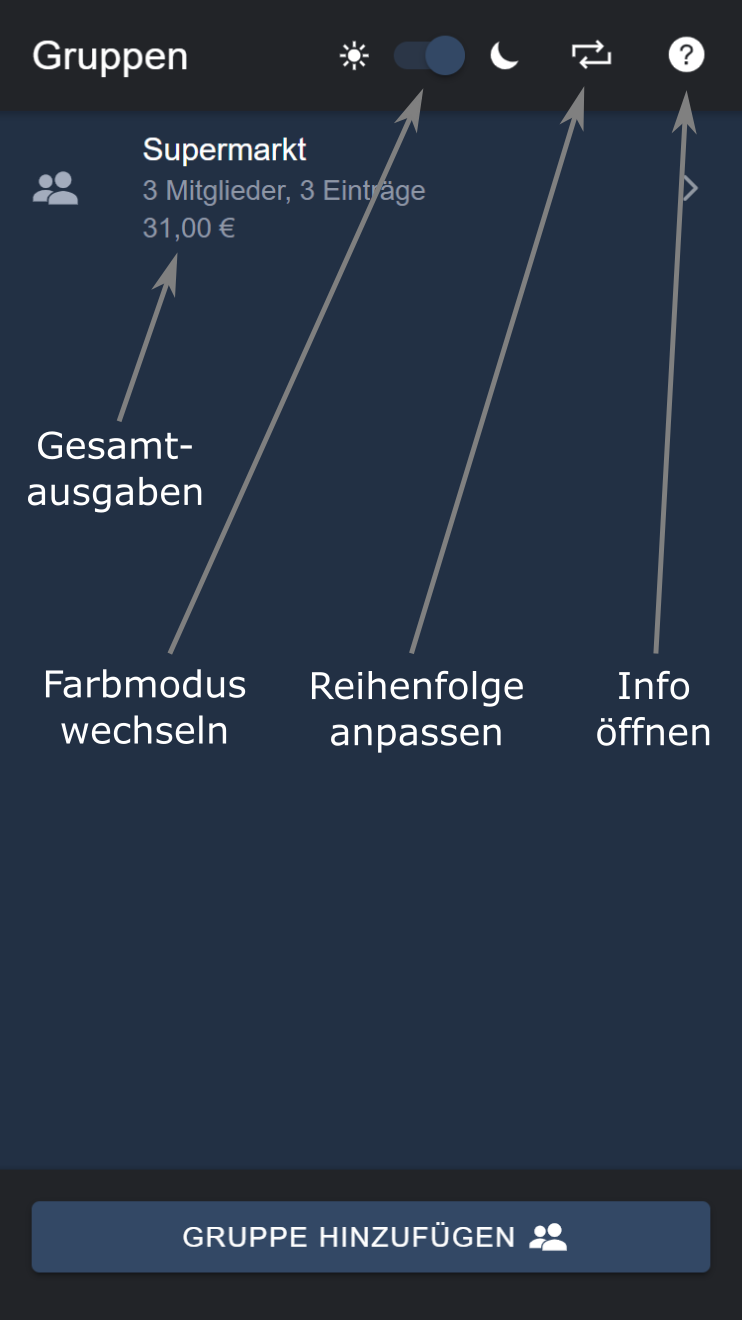
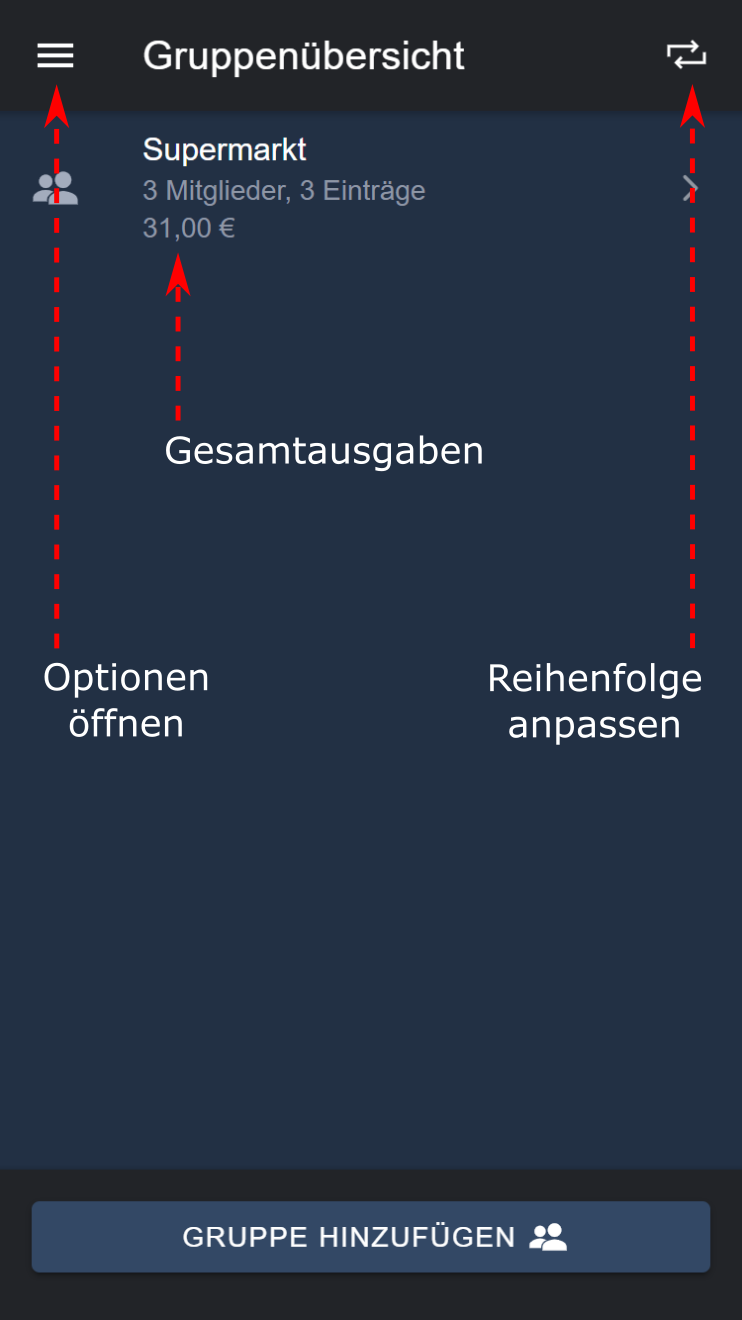
adjusted infoslides and added the open on first open again.

diff --git a/src/components/InfoSlides/index.tsx b/src/components/InfoSlides/index.tsx
@@ -3,8 +3,8 @@ import { informationCircleSharp, helpCircleSharp, bulbSharp } from 'ionicons/ico
 import { InfoSlideWithIcon } from './InfoSlideWithIcon'
 import { Swiper, SwiperSlide } from 'swiper/react/swiper-react'
 import { Pagination } from 'swiper'
-import img_group_overview from './images/Gruppenübersicht-bearbeitet.png'
-import img_group_info from './images/Gruppenmitglieder-bearbeitet.png'
+import GroupOverviewImage from './images/Gruppenübersicht-bearbeitet.png'
+import GroupInfoImage from './images/Gruppeninfo-bearbeitet.png'
 import { InfoSlideWithPicture } from './InfoSlideWithPicture'
 import 'swiper/swiper.min.css'
 import 'swiper/modules/pagination/pagination.min.css'
@@ -31,7 +31,7 @@ export const InfoSlides = ({ onToggleShowInfoSlides }: InfoSlidesProps): JSX.Ele
     <SwiperSlide style={{ flexDirection: 'column', justifyContent: 'start' }}>
       <InfoSlideWithPicture
         title='Gruppenübersicht'
-        imgSrc={img_group_overview}
+        imgSrc={GroupOverviewImage}
         imgAlt='Gruppenübersicht mit Bedienungshinweisen'
         onToggleShowInfoSlides={onToggleShowInfoSlides}
       />
@@ -39,7 +39,7 @@ export const InfoSlides = ({ onToggleShowInfoSlides }: InfoSlidesProps): JSX.Ele
     <SwiperSlide style={{ flexDirection: 'column', justifyContent: 'start' }}>
       <InfoSlideWithPicture
         title='Gruppeninfo'
-        imgSrc={img_group_info}
+        imgSrc={GroupInfoImage}
         imgAlt='Gruppeninfo mit Bedienungshinweisen'
         onToggleShowInfoSlides={onToggleShowInfoSlides}
       />
@@ -51,7 +51,7 @@ export const InfoSlides = ({ onToggleShowInfoSlides }: InfoSlidesProps): JSX.Ele
         title='Listeneinträge'
         onToggleShowInfoSlides={onToggleShowInfoSlides}
         firstParagraph='Durch das Anklicken einzelner Listeneinträge können diese entweder geöffnet oder bearbeitet werden.'
-        secondParagraph='Durch das Wischen einzelner Listeneinträge nach rechts wird ein Knopf sichtbar, über welchem diese gelöscht werden können.'
+        secondParagraph='Durch das Wischen einzelner Listeneinträge nach rechts wird ein Knopf sichtbar, über welchen diese gelöscht werden können.'
       />
     </SwiperSlide>
     <SwiperSlide style={{ flexDirection: 'column', justifyContent: 'start' }}>
@@ -60,7 +60,7 @@ export const InfoSlides = ({ onToggleShowInfoSlides }: InfoSlidesProps): JSX.Ele
         iconFontSize={216}
         title='Alles klar?'
         onToggleShowInfoSlides={onToggleShowInfoSlides}
-        firstParagraph='Über das Fragezeichen-Symbol in der Gruppenübersicht ist es möglich, diese Infos bei Bedarf erneut zu öffnen.'
+        firstParagraph='Über die Hilfe in den Optionen ist es möglich, diese Informationen bei Bedarf erneut zu öffnen.'
       >
         <IonButton color='medium' onClick={onToggleShowInfoSlides}>
           Kann losgehen!

diff --git a/src/pages/GroupPage/useGroupPage.ts b/src/pages/GroupPage/useGroupPage.ts
@@ -1,45 +1,51 @@
 import { App } from '@capacitor/app'
 import { useIonRouter } from '@ionic/react'
-import { useEffect, useState } from 'react'
+import { useEffect, useRef, useState } from 'react'
 import { Group } from '../../App/types'
 import { usePersistedStore } from '../../stores/usePersistedStore'
 import { isDark } from './utils'
 
 export const useGroupPage = () => {
   const theme = usePersistedStore.useTheme()
+  const alreadyVisited = usePersistedStore.useAlreadyVisited()
+  const setAlreadyVisited = usePersistedStore.useSetAlreadyVisited()
   const ionRouter = useIonRouter()
   const [showInfoSlides, setShowInfoSlides] = useState(false)
   const [showDeleteGroupAlert, setShowDeleteGroupAlert] = useState(false)
   const [selectedGroupId, setSelectedGroupId] = useState('')
+  const [showFirstInfoSlides, setShowFirstInfoSlides] = useState(!alreadyVisited)
+  // needed to remove the ion-page-invisible to show the page after the firstInfoSlide is closed
+  const pageRef = useRef(null)
 
   useEffect(() => {
     document.addEventListener('ionBackButton', event => {
       // @ts-ignore
       event.detail.register(-1, () => {
-        if (showInfoSlides) {
-          setShowInfoSlides(false)
-          return
-        }
-
-        if (!ionRouter.canGoBack()) {
-          App.exitApp()
-        }
+        if (showInfoSlides) return setShowInfoSlides(false)
+        if (showFirstInfoSlides) return onHideFirstInfoSlides()
+        if (!ionRouter.canGoBack()) App.exitApp()
       })
     })
-  }, [ionRouter, showInfoSlides, setShowInfoSlides])
+  }, [ionRouter, showInfoSlides, showFirstInfoSlides])
 
   useEffect(() => {
     if (isDark(theme)) return document.body.classList.add('dark')
     document.body.classList.remove('dark')
   }, [theme])
 
+  useEffect(() => {
+    setAlreadyVisited()
+  }, [setAlreadyVisited])
+
   const onDeleteGroup = (groupId: Group['groupId']) => {
     setSelectedGroupId(groupId)
     setShowDeleteGroupAlert(true)
   }
 
-  const onToggleShowInfoSlides = () => {
-    setShowInfoSlides(prevState => !prevState)
+  const onHideFirstInfoSlides = () => {
+    setShowFirstInfoSlides(false)
+    // @ts-ignore typing on pageRef is not correct from ionic
+    pageRef.current?.classList.remove('ion-page-invisible')
   }
 
   return {
@@ -49,6 +55,9 @@ export const useGroupPage = () => {
     selectedGroupId,
     setShowDeleteGroupAlert,
     onDeleteGroup,
-    onToggleShowInfoSlides,
+    setShowInfoSlides,
+    showFirstInfoSlides,
+    onHideFirstInfoSlides,
+    pageRef,
   }
 }

diff --git a/src/stores/usePersistedStore.ts b/src/stores/usePersistedStore.ts
@@ -1,15 +1,39 @@
 import create from 'zustand'
+import { Drivers, Storage } from '@ionic/storage'
 import { createSelectorHooks } from 'auto-zustand-selectors-hook'
-import { persist } from 'zustand/middleware'
-import { storage } from './storage'
+import { persist, StateStorage } from 'zustand/middleware'
 import { createCompensationSlice, CompensationSlice } from './slices/createCompensationSlice'
 import { createGroupSlice, GroupSlice } from './slices/createGroupSlice'
 import { createMemberSlice, MemberSlice } from './slices/createMemberSlice'
 import { createPurchaseSlice, PurchaseSlice } from './slices/createPurchaseSlice'
 import { createThemeSlice, ThemeSlice } from './slices/createThemeSlice'
 import { createIncomeSlice, IncomeSlice } from './slices/createIncomeSlice'
+import { AlreadyVisitedSlice, createAlreadyVisitedSlice } from './slices/createAlreadyVisitedSlice'
 
-export type PersistedState = GroupSlice & MemberSlice & PurchaseSlice & IncomeSlice & CompensationSlice & ThemeSlice
+const ionicStorage = new Storage({
+  name: '__db',
+  driverOrder: [Drivers.IndexedDB, Drivers.LocalStorage],
+})
+
+const storage: StateStorage = {
+  getItem: async key => {
+    return (await ionicStorage.get(key)) || null
+  },
+  setItem: async (key, value) => {
+    await ionicStorage.set(key, value)
+  },
+  removeItem: async key => {
+    await ionicStorage.remove(key)
+  },
+}
+
+export type PersistedState = GroupSlice &
+  MemberSlice &
+  PurchaseSlice &
+  IncomeSlice &
+  CompensationSlice &
+  ThemeSlice &
+  AlreadyVisitedSlice & { _hasHydrated: boolean }
 
 const usePersistedStoreBase = create<PersistedState>(
   persist(
@@ -20,10 +44,21 @@ const usePersistedStoreBase = create<PersistedState>(
       ...createIncomeSlice(set, get),
       ...createCompensationSlice(set, get),
       ...createThemeSlice(set),
+      ...createAlreadyVisitedSlice(set),
+      _hasHydrated: false,
     }),
     {
       name: 'store-storage',
-      getStorage: () => storage,
+      getStorage: () => {
+        const createStore = async () => {
+          await ionicStorage.create()
+        }
+        createStore()
+        return storage
+      },
+      onRehydrateStorage: () => () => {
+        usePersistedStore.setState({ _hasHydrated: true })
+      },
     }
   )
 )

diff --git a/src/pages/GroupPage/index.tsx b/src/pages/GroupPage/index.tsx
@@ -38,7 +38,10 @@ export const GroupPage = (): JSX.Element => {
     selectedGroupId,
     setShowDeleteGroupAlert,
     onDeleteGroup,
-    onToggleShowInfoSlides,
+    setShowInfoSlides,
+    showFirstInfoSlides,
+    onHideFirstInfoSlides,
+    pageRef,
   } = useGroupPage()
   const groups = usePersistedStore.useGroups()
   const deleteGroup = usePersistedStore.useDeleteGroup()
@@ -59,7 +62,7 @@ export const GroupPage = (): JSX.Element => {
         </IonHeader>
         <IonContent>
           <IonList>
-            <IonItem onClick={onToggleShowInfoSlides} lines='none'>
+            <IonItem onClick={() => setShowInfoSlides(true)} lines='none'>
               <IonIcon className='list-item-icon-color' icon={helpCircleSharp} slot='start' />
               <IonLabel>Hilfe</IonLabel>
             </IonItem>
@@ -70,7 +73,7 @@ export const GroupPage = (): JSX.Element => {
           </IonList>
         </IonContent>
       </IonMenu>
-      <IonPage id='main-content'>
+      <IonPage id='main-content' ref={pageRef}>
         <IonHeader>
           <IonToolbar color='dark'>
             <IonButtons slot='start'>
@@ -122,7 +125,14 @@ export const GroupPage = (): JSX.Element => {
       {showInfoSlides && (
         <IonPage className='info-slides-container'>
           <IonContent>
-            <InfoSlides onToggleShowInfoSlides={onToggleShowInfoSlides} />
+            <InfoSlides onToggleShowInfoSlides={() => setShowInfoSlides(false)} />
+          </IonContent>
+        </IonPage>
+      )}
+      {showFirstInfoSlides && (
+        <IonPage className='info-slides-container'>
+          <IonContent>
+            <InfoSlides onToggleShowInfoSlides={onHideFirstInfoSlides} />
           </IonContent>
         </IonPage>
       )}

diff --git a/src/App/index.tsx b/src/App/index.tsx
@@ -5,6 +5,7 @@ import { GroupPage } from '../pages/GroupPage'
 import { GroupInfoPage } from '../pages/GroupInfoPage'
 import { useStore } from '../stores/useStore'
 import { SuccessAnimation } from '../lotties/SuccessAnimation'
+import { usePersistedStore } from '../stores/usePersistedStore'
 
 /* Core CSS required for Ionic components to work properly */
 import '@ionic/react/css/core.css'
@@ -27,8 +28,12 @@ import '../theme/variables.css'
 
 setupIonicReact()
 
-export const App = (): JSX.Element => {
+export const App = (): JSX.Element | null => {
+  const hasHydrated = usePersistedStore.use_hasHydrated()
   const showAnimation = useStore.useShowAnimation()
+
+  // Wait for zustand to be loaded with data from database
+  if (!hasHydrated) return null
 
   return (
     <IonApp>

diff --git a/src/stores/slices/createAlreadyVisitedSlice.ts b/src/stores/slices/createAlreadyVisitedSlice.ts
@@ -1,0 +1,12 @@
+import { SetState } from 'zustand'
+import { PersistedState } from '../usePersistedStore'
+
+export interface AlreadyVisitedSlice {
+  alreadyVisited: boolean
+  setAlreadyVisited: () => void
+}
+
+export const createAlreadyVisitedSlice = (set: SetState<PersistedState>): AlreadyVisitedSlice => ({
+  alreadyVisited: false,
+  setAlreadyVisited: () => set({ alreadyVisited: true }),
+})
